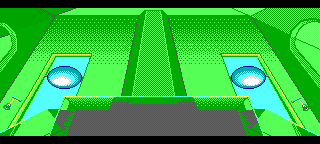
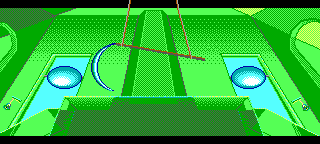
Preserve LOOM scythe background from later erasing overlays

Changed region(s): [[0.2812, 0.0278, 0.6562, 0.6389], [0.5312, 0.0, 0.5625, 0.1111]]

diff --git a/.verification/status-refinements-20261001/ScytheProbe/Program.cs b/.verification/status-refinements-20261001/ScytheProbe/Program.cs
@@ -1,0 +1,81 @@
+using System.IO;
+using System.Text.Json;
+using System.Windows.Media;
+using System.Windows.Media.Imaging;
+using SCUMMexplorer.Core.Discovery;
+using SCUMMexplorer.Core.Formats;
+using SCUMMexplorer.Core.Rendering;
+
+internal static class Program
+{
+    [STAThread] static void Main(string[] args)
+    {
+        Directory.CreateDirectory(args[1]);
+        var game = new GameFolderScanner().Scan(args[0]);
+        var resource = game.Rooms.Single(r => r.ResourceId == 20);
+        var bytes = File.ReadAllBytes(resource.FilePath);
+        var room = new LoomEgaRoomDecoder().Decode(bytes);
+        var records = new LoomRoomObjectDirectory().Decode(bytes);
+        var images = new LoomRoomObjects().Decode(bytes);
+        void WriteImage(string name, int width, int height, byte[] pixels)
+        {
+            var rgb = new byte[pixels.Length*4];
+            for(int i=0;i<pixels.Length;i++) {uint c=room.Palette[Math.Min(pixels[i],(byte)15)]; rgb[i*4]=(byte)c;rgb[i*4+1]=(byte)(c>>8);rgb[i*4+2]=(byte)(c>>16);rgb[i*4+3]=255;}
+            var bitmap=BitmapSource.Create(width,height,96,96,PixelFormats.Bgra32,null,rgb,width*4);
+            var encoder=new PngBitmapEncoder();encoder.Frames.Add(BitmapFrame.Create(bitmap));
+            using var stream=File.Create(Path.Combine(args[1],name+".png"));encoder.Save(stream);
+        }
+        WriteImage("background",room.Width,room.Height,room.Pixels.ToArray());
+        foreach(var picture in images) {WriteImage($"object{picture.Id}-{picture.X}-{picture.Y}",picture.Width,picture.Height,picture.Pixels); Console.WriteLine($"object{picture.Id} {picture.X},{picture.Y} {picture.Width}x{picture.Height}");}
+        var index = new LflObjectStateReader().ReadSnapshot(Path.Combine(args[0], "00.LFL"));
+        var batches = LoomSceneDrawBatches.Build(game);
+        foreach (int id in new[] {4,20,43,86})
+        {
+            var raw=File.ReadAllBytes(game.Rooms.Single(r=>r.ResourceId==id).FilePath);
+            var bg=new LoomEgaRoomDecoder().Decode(raw);
+            foreach(var obj in new LoomRoomObjects().Decode(raw))
+            {
+                var before=new HashSet<byte>();
+                for(int y=0;y<obj.Height;y++) for(int x=0;x<obj.Width;x++) before.Add(bg.Pixels.Span[(obj.Y+y)*bg.Width+obj.X+x]);
+                var after=obj.Pixels.ToHashSet();
+                Console.WriteLine($"METRIC room{id} obj{obj.Id} before={string.Join(',',before.Order())} after={string.Join(',',after.Order())}");
+            }
+        }
+        var session = new LoomExplorationSession(game, index);
+        session.VisitRoom(resource);
+        var costumes = new Dictionary<int, LoomCostume?>();
+        LoomCostume? Costume(int id)
+        {
+            if (!costumes.TryGetValue(id, out var costume)) costumes[id] = costume = LoomCostume.Load(game, id);
+            return costume;
+        }
+        var frames = new List<object>();
+        for (int frame = 0; frame <= 200; frame++)
+        {
+            if (frame is 0 or 1 or 10 or 50 or 200)
+            {
+                var snapshot = session.Snapshot;
+                var selection = new RoomObjectSelection(images, snapshot.ObjectStates, snapshot.ObjectPositions, records, room, index.States, snapshot.DrawOrder);
+                if (!snapshot.IsFaithful)
+                {
+                    selection.ExcludeInterfaceImages(batches.InterfaceImages.Keys);
+                    selection.FillGaps(batches.ForRoom(20), seed:20);
+                    if (!images.Any(selection.IsActive)) selection.ShowUnresolvedArtwork(batches.ForRoom(20), seed:20, snapshot.StatesSetByCode, batches.EntryStatesForRoom(20));
+                }
+                var layer = LoomActorRenderer.Render(session.Actors, 20, room.Width, room.Height, Costume,
+                    selection.ComposeDepthMask(room), session.CurrentWalkBoxes, session.ObjectClasses);
+                frames.Add(new {frame, sourceActors=session.Actors, layer.Actors, layer.Skipped, snapshot.ObjectStates, snapshot.ObjectClasses});
+                var pixels = selection.Compose(room);
+                for(int i=0;i<pixels.Length;i++) if(layer.Pixels[i] != LoomActorRenderer.Transparent) pixels[i]=layer.Pixels[i];
+                var rgb = new byte[pixels.Length*4];
+                for(int i=0;i<pixels.Length;i++) {uint c=room.Palette[Math.Min(pixels[i],(byte)15)]; rgb[i*4]=(byte)c;rgb[i*4+1]=(byte)(c>>8);rgb[i*4+2]=(byte)(c>>16);rgb[i*4+3]=255;}
+                var bitmap=BitmapSource.Create(room.Width,room.Height,96,96,PixelFormats.Bgra32,null,rgb,room.Width*4);
+                var encoder=new PngBitmapEncoder();encoder.Frames.Add(BitmapFrame.Create(bitmap));
+                using var stream=File.Create(Path.Combine(args[1],$"room20-frame{frame:000}.png"));encoder.Save(stream);
+                Console.WriteLine($"frame {frame}: {string.Join(';',layer.Actors.Select(a=>$"actor{a.Number} costume{a.Costume} pixels{a.Pixels} bounds{a.Bounds}"))}");
+            }
+            session.AdvanceFrame();
+        }
+        File.WriteAllText(Path.Combine(args[1],"evidence.json"),JsonSerializer.Serialize(new {rooms=game.Rooms.Select(r=>r.ResourceId),records,frames,trace=session.SessionTrace,uncertainties=session.Snapshot.Uncertainties},new JsonSerializerOptions{WriteIndented=true}));
+    }
+}

diff --git a/src/SCUMMexplorer.Core/Rendering/RoomObjectSelection.cs b/src/SCUMMexplorer.Core/Rendering/RoomObjectSelection.cs
@@ -1,3 +1,5 @@
+using SCUMMexplorer.Core.Formats;
+
 namespace SCUMMexplorer.Core.Rendering;
 
 public readonly record struct RoomObjectPosition(int X, int Y);
@@ -44,6 +46,7 @@ public sealed class RoomObjectSelection
     private readonly HashSet<int> _knownStates = [];
     private readonly Dictionary<int, RoomObjectPosition> _positions;
     private readonly HashSet<int> _backgroundPossible = [];
+    private readonly HashSet<int> _indexedBackground = [];
     private readonly IReadOnlyDictionary<int, LoomRoomObjectRecord>? _recordsById;
     private readonly IReadOnlyDictionary<int, LoomRoomObjectRecord>? _recordsByLocalIndex;
     private readonly RoomImage? _background;
@@ -97,7 +100,11 @@ public sealed class RoomObjectSelection
             RememberBackgroundIfEmpty(obj);
             if (indexedStates is not null && Peers(obj).All(peer =>
                     indexedStates.TryGetValue(peer.Id, out var state) && (state & 0x0F) == 0))
-                foreach (var peer in Peers(obj)) _backgroundPossible.Add(peer.Id);
+                foreach (var peer in Peers(obj))
+                {
+                    _backgroundPossible.Add(peer.Id);
+                    _indexedBackground.Add(peer.Id);
+                }
         }
     }
 
@@ -202,6 +209,19 @@ public sealed class RoomObjectSelection
 
     public const string FirstStoredImageReason = "first stored image for this position; no decoded script draws it";
 
+    private bool RemovesBackgroundColours(RoomObjectImage obj)
+    {
+        if (_background is null) return false;
+        var position = GetPosition(obj);
+        if (position.X < 0 || position.Y < 0 || position.X + obj.Width > _background.Width ||
+            position.Y + obj.Height > _background.Height) return false;
+        var backgroundColours = new HashSet<byte>();
+        for (var y = 0; y < obj.Height; y++)
+            for (var x = 0; x < obj.Width; x++)
+                backgroundColours.Add(_background.Pixels.Span[(position.Y + y) * _background.Width + position.X + x]);
+        return obj.Pixels.ToHashSet().IsProperSubsetOf(backgroundColours);
+    }
+
     /// <summary>
     /// Supplies a reproducible artwork estimate where a partial script run
     /// leaves no image. Existing script-visible images always take precedence.
@@ -221,6 +241,9 @@ public sealed class RoomObjectSelection
     /// path (<paramref name="entryStates"/>): a nonzero state shows that image,
     /// a zero state leaves the position empty. Only then does the first stored
     /// image apply.
+    /// An intact background can already contain the artwork: index-hidden
+    /// colour-removal overlays are not guessed without positive entry state
+    /// or an entry/opening draw batch. Reached draws remain authoritative.
     /// </summary>
     public IReadOnlyList<RoomArtworkEstimate> ShowUnresolvedArtwork(IReadOnlyList<RoomDrawBatch>? batches = null,
         int seed = 0, IReadOnlyCollection<int>? statesSetByCode = null,
@@ -231,7 +254,16 @@ public sealed class RoomObjectSelection
         var estimates = new List<RoomArtworkEstimate>();
         var random = new Random(seed);
 
-        bool Open(RoomObjectImage obj) => !_interfaceImages.Contains(obj.Id) &&
+        // Some stored overlays erase details already drawn into the background.
+        // Do not guess these index-hidden removal images from a later reaction.
+        // Entry/opening evidence and actual source draws still take precedence.
+        bool KeepIndexedBackground(RoomObjectImage obj) => _background is not null &&
+            _indexedBackground.Contains(obj.Id) && !IsBackgroundGap(obj) && RemovesBackgroundColours(obj) &&
+            !Peers(obj).Any(peer => entryStates?.TryGetValue(peer.Id, out var state) == true && (state.State & 0x0F) != 0) &&
+            !_batches.Any(batch => batch.Priority >= LoomSceneDrawBatches.EntryScriptPriority &&
+                batch.Steps.Any(step => Peers(obj).Any(peer => peer.Id == step.ObjectId)));
+
+        bool Open(RoomObjectImage obj) => !_interfaceImages.Contains(obj.Id) && !KeepIndexedBackground(obj) &&
                                           !Peers(obj).Any(IsActive) &&
                                           !_objects.Any(other => IsActive(other) && Intersects(obj, other));
 

diff --git a/tests/SCUMMexplorer.Tests/RoomObjectSelectionTests.cs b/tests/SCUMMexplorer.Tests/RoomObjectSelectionTests.cs
@@ -6,6 +6,39 @@ namespace SCUMMexplorer.Tests;
 public sealed class RoomObjectSelectionTests
 {
     [Fact]
+    public void IntactIndexedBackgroundSurvivesLaterReactionOverlayGuess()
+    {
+        var original = Enumerable.Repeat((byte)2, 16 * 16).ToArray();
+        original[5 * 16 + 5] = 14; // Detail drawn in the background, erased by a later overlay.
+        var background = new RoomImage(16, 16, original, Palette);
+        var overlay = Filled(10, 4, 4, 8, 8, 2);
+        var hidden = new Dictionary<int, byte> { [10] = 0 };
+        var selection = new RoomObjectSelection([overlay], hidden, background: background, indexedStates: hidden);
+        RoomDrawBatch[] later = [new([new(10)], LoomSceneDrawBatches.OtherScriptPriority, "later reaction")];
+
+        Assert.Empty(selection.ShowUnresolvedArtwork(later));
+        Assert.Equal(original, selection.Compose(background));
+        Assert.True(selection.DrawObject(10)); // A reached source draw still applies the erasure.
+        Assert.Equal(2, selection.Compose(background)[5 * 16 + 5]);
+    }
+
+    [Fact]
+    public void EntryEvidenceCanReplaceIntactIndexedBackground()
+    {
+        var original = Enumerable.Repeat((byte)2, 256).ToArray();
+        original[5 * 16 + 5] = 14;
+        var background = new RoomImage(16, 16, original, Palette);
+        var overlay = Filled(10, 4, 4, 8, 8, 2);
+        var hidden = new Dictionary<int, byte> { [10] = 0 };
+        var selection = new RoomObjectSelection([overlay], hidden, background: background, indexedStates: hidden);
+        RoomDrawBatch[] entry = [new([new(10)], LoomSceneDrawBatches.EntryScriptPriority, "entry")];
+
+        Assert.Single(selection.ShowUnresolvedArtwork(entry));
+        Assert.True(selection.IsActive(overlay));
+        Assert.Equal(2, selection.Compose(background)[5 * 16 + 5]);
+    }
+
+    [Fact]
     public void IndexStateControlsStartingVisibility()
     {
         var first = Image(10, 8, 0, 8, 8);

diff --git a/tests/SCUMMexplorer.Tests/LoomFirstVisitRenderingTests.cs b/tests/SCUMMexplorer.Tests/LoomFirstVisitRenderingTests.cs
@@ -54,10 +54,14 @@ public sealed class LoomFirstVisitRenderingTests
         if (Data.Value is not { } data) return;
         // Script 90 flashes 637 and 638 in Room 42 (drawObject, breakHere, setState 0).
         Assert.DoesNotContain(data.Batches.ForRoom(42), batch => batch.Source.StartsWith("script 90 ", StringComparison.Ordinal));
-        // Script 99 draws Room 20's images and leaves them; they were the stored-image guess before.
-        var (selection, estimates, _) = data.FirstVisit(20);
-        Assert.Equal([392, 393, 394, 395, 396], estimates.Select(item => item.ObjectId).Order());
-        Assert.All(estimates, item => Assert.Equal("script 99 +0x02BB", item.Reason));
+        // Script 99 later removes the scythe using these background repair images.
+        // Its batch remains decoded, but first-visit fallback must retain the scythe.
+        Assert.Contains(data.Batches.ForRoom(20), batch => batch.Source == "script 99 +0x02BB" &&
+            batch.Steps.Select(step => step.ObjectId).Order().SequenceEqual(new[] {392, 393, 394, 395, 396}));
+        var (selection, estimates, background) = data.FirstVisit(20);
+        Assert.Empty(estimates);
+        Assert.Empty(selection.PaintOrder());
+        Assert.Equal(background.Pixels.ToArray(), selection.Compose(background));
         Assert.Empty(selection.VisibleGaps());
     }
 

diff --git a/.verification/status-refinements-20261001/compare_rooms.py b/.verification/status-refinements-20261001/compare_rooms.py
@@ -1,0 +1,16 @@
+from pathlib import Path
+import hashlib,json
+root=Path('Exe/StatusRefinementsSession-20261001')
+before=root/'room-before'
+after=root/'room-after-1'
+changes=[]
+for path in sorted(after.glob('room-*.bmp')):
+    if path.read_bytes() != (before/path.name).read_bytes():
+        changes.append(path.name)
+report={'rooms':len(list(after.glob('room-*.bmp'))),'changed':changes,
+        'before20':hashlib.sha256((before/'room-20.bmp').read_bytes()).hexdigest(),
+        'after20':hashlib.sha256((after/'room-20.bmp').read_bytes()).hexdigest()}
+Path('.verification/status-refinements-20261001/room-comparison.json').write_text(json.dumps(report,indent=2)+'\n')
+print(json.dumps(report))
+assert report['rooms']==76
+assert changes==['room-20.bmp']

diff --git a/.verification/status-refinements-20261001/scythe-validation.md b/.verification/status-refinements-20261001/scythe-validation.md
@@ -1,0 +1,23 @@
+# Scythe background preservation
+
+User reported the missing scythe in the glassworkers' polishing scene. The bundled Spanish EGA index identifies that scene as **Room20**; it contains no Room21 resource. Source objects390/391 are the scythe interaction targets. No game data changed.
+
+The decoded background already contains the scythe. The empty-object fallback guessed script099's later +0x02BB draw batch392..396, which repairs the wall/background over that artwork. Each overlay uses a proper subset of the background rectangle's palette colours; none adds a new colour. All five have index state0. The room entry supplies neither a positive entry state nor an entry/opening draw for them.
+
+Generic `RoomObjectSelection` fallback now retains an intact, index-hidden background when an overlay only removes background colours and has no stronger entry/opening evidence. This is a conservative **artwork-estimation policy**, not an inferred source transition. Actual reached `DrawObject`, positive entry states, opening batches and gap filling keep their existing precedence. No room number or object ID is embedded in the production rule.
+
+Two synthetic regression tests cover retention versus actual reached erasure, and an entry batch explicitly overriding the same erasing overlay. The real-data first-visit test now distinguishes the still-decoded later batch from the actual background to retain. Existing owl, blacksmith and close-up hood regressions pass.
+
+Fresh full Core: **277/277**, both absolute data roots, unrelated untracked LoomObjectLookAuditTests excluded. Fresh RoomAudit: **76 rooms**, gaps3 before filling/0 after. Byte comparisons against the pre-change BMPs show **only Room20 changed**;75 renders match exactly. [Hashes](room-comparison.json). Only historical `.verification/room-audit/room-20.png` refreshed. Native actor rendering beside the retained scythe was inspected at frames0/1/10/50/200 and in the actual WPF window.
+
+`ScytheProbe` reproduces native background, overlays and actor compositions. Full images/source traces remain ignored under `Exe/StatusRefinementsSession-20261001/scythe-before-2/` and `scythe-after-1/`; room packets under `room-before/` and `room-after-1/`. Early overly broad background retention produced three unrelated first-visit failures plus the obsolete scythe expectation. Narrowing the rule to colour-removal images restored those scenes; final277 pass. An initial Get-FileHash command was unavailable; the retained Python comparison performs actual76-file comparisons and asserts the single expected change.
+
+Fresh source audit results are recorded in [the combined validation](validation.md). Replay executor, prerequisites, catalog metadata and source scripts are unchanged.
+
+Reproduce from `D:\Documents\Personal\Code Projects\SCUMMexplorer` with required RTK:
+
+```powershell
+rtk proxy dotnet run --project .verification/RoomAudit/RoomAudit.csproj -c Release -- Games/loom Exe/StatusRefinementsSession-20261001/room-fresh 20
+rtk proxy dotnet run --project .verification/status-refinements-20261001/ScytheProbe/ScytheProbe.csproj -c Release -- Games/loom Exe/StatusRefinementsSession-20261001/scythe-fresh
+rtk proxy powershell -NoProfile -ExecutionPolicy Bypass -File .verification/status-refinements-20261001/run-source-audits.ps1 -Output Exe/StatusRefinementsSession-20261001/audits-fresh
+```
